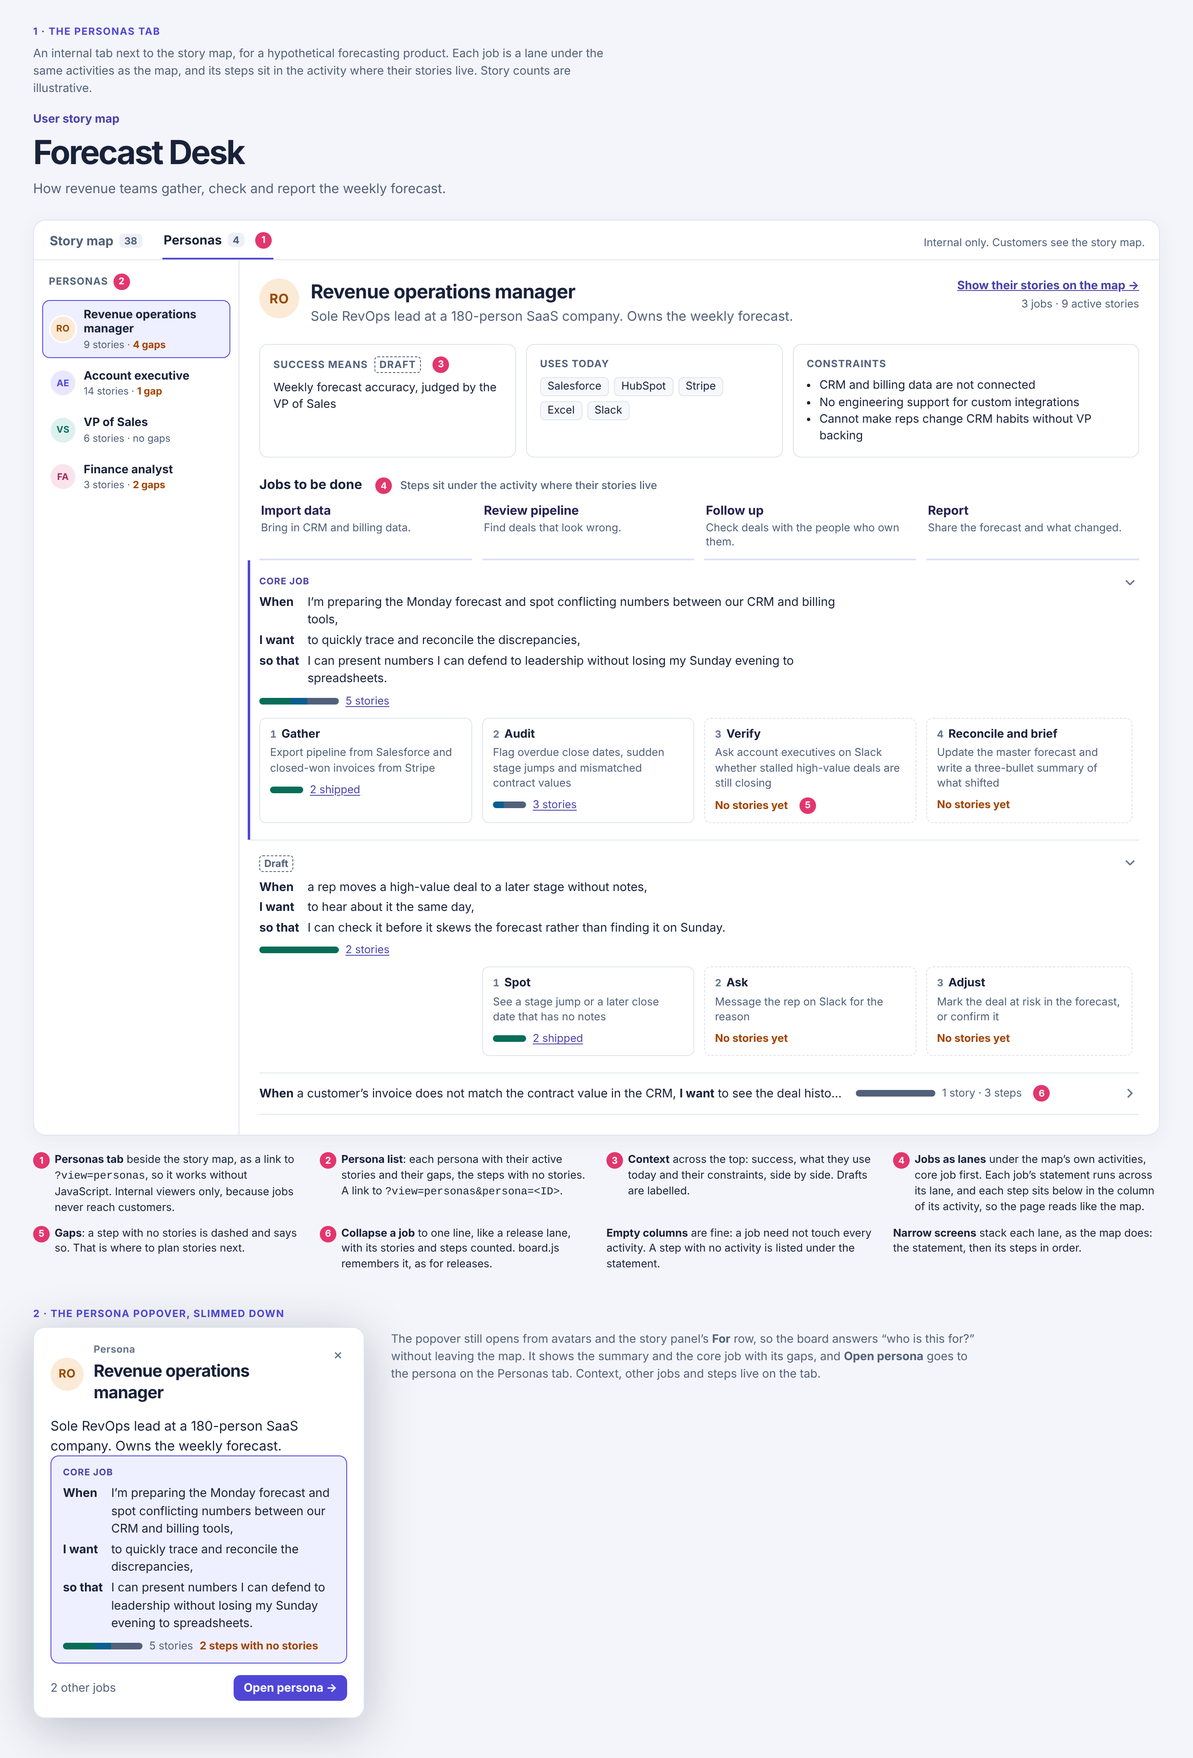
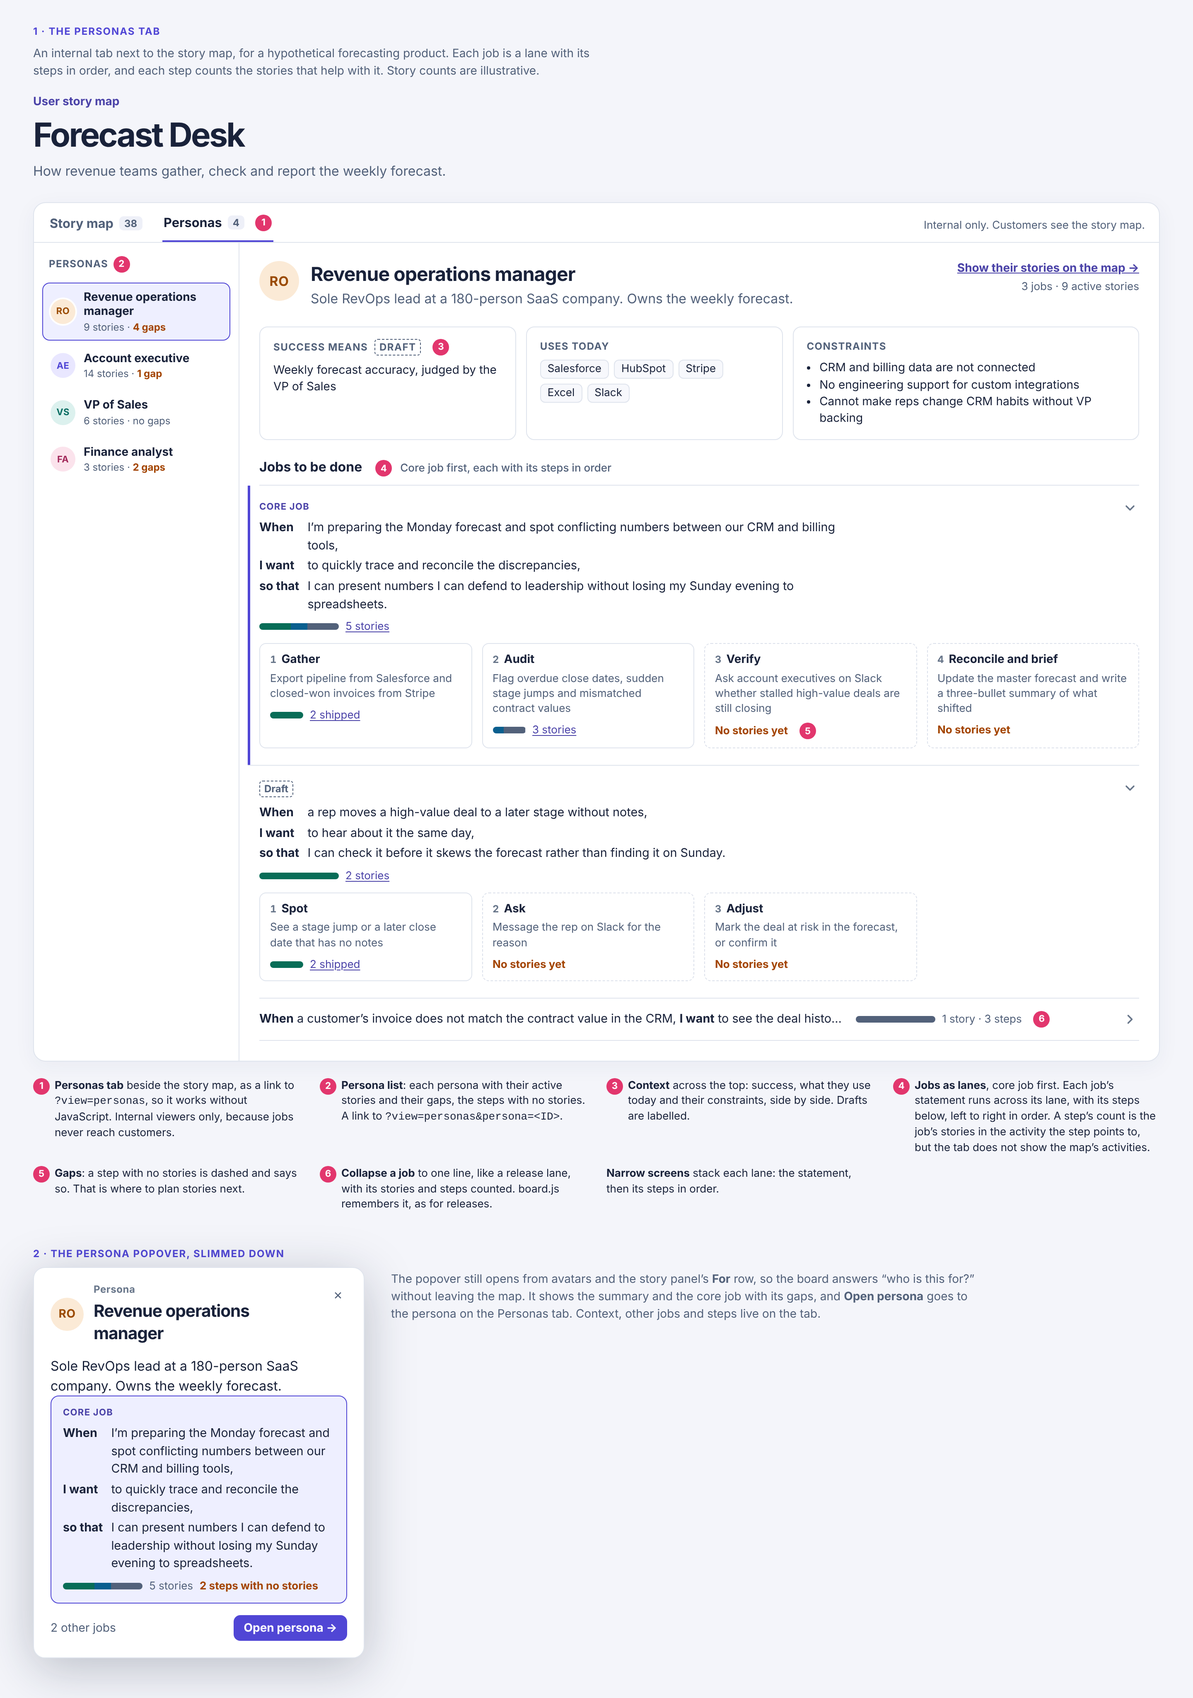
ESM-911: Take the map's activities out of the Personas tab
Each job lane now lists its steps left to right in order, with no activity
row and no empty columns. Steps still point to activities in the map file,
which decides the stories each one counts. Update the plan and the ESM-910
and ESM-911 summaries to match.

Claude-Session: https://claude.ai/code/session_01Lq2MQSpe3eM9QABbsSvSfC

diff --git a/docs/plans/persona-page-mockup.html b/docs/plans/persona-page-mockup.html
@@ -56,20 +56,17 @@
   .esm-uses { display: flex; flex-wrap: wrap; gap: 6px; padding: 0 !important; list-style: none; }
   .esm-uses li { padding: 1px 8px; border: 1px solid var(--esm-line); border-radius: 6px; background: var(--esm-canvas); font-size: .8125rem; }
 
-  /* Jobs as lanes under the map's activities.
+  /* Jobs as lanes, each with its steps in order.
      Kept quiet on purpose: no box around the section or each lane, lanes split by a rule,
      the core job marked by an accent edge, and flat step cards with the count as the link. */
   .esm-section-title { display: flex; align-items: baseline; gap: 10px; margin: 0 0 10px; font-size: 1rem; font-weight: 700; }
   .esm-section-title span:not(.mock-callout) { color: var(--esm-muted); font-size: .8125rem; font-weight: 500; }
-  .esm-jobs-map .esm-grid { grid-template-columns: repeat(var(--esm-columns), minmax(10rem, 1fr)); min-width: 0; padding: 0; background: none; row-gap: 0; }
-  .esm-jobs-map .esm-row { column-gap: 12px; }
-  .esm-jobs-map .esm-activity { padding: 0 2px 10px; border: 0; border-bottom: 2px solid var(--esm-activity-line); border-radius: 0; background: none; }
-  .esm-jobs-map .esm-activity-title { font-size: .9375rem; }
-  .esm-jobs-map .esm-activity-summary { font-size: .8125rem; }
-  .esm-job-lane { position: relative; row-gap: 12px; padding: 18px 0 20px; border-bottom: 1px solid var(--esm-line); }
+  .esm-jobs-map { border-top: 1px solid var(--esm-line); }
+  .esm-job-lane { position: relative; display: grid; gap: 12px; padding: 18px 0 20px; border-bottom: 1px solid var(--esm-line); }
+  .esm-job-steps { display: grid; grid-template-columns: repeat(4, minmax(0, 1fr)); gap: 12px; }
   .esm-job-lane[data-core] { padding-left: 14px; margin-left: -14px; box-shadow: inset 3px 0 0 var(--esm-accent); }
   .esm-job-lane[data-core] .esm-job-cell { padding-left: 0; }
-  .esm-job-cell { position: relative; grid-column: 1 / -1; display: grid; align-content: start; gap: 8px; min-width: 0; padding-right: 36px; }
+  .esm-job-cell { position: relative; display: grid; align-content: start; gap: 8px; min-width: 0; padding-right: 36px; }
   .esm-job-label { color: var(--esm-accent-ink); font-size: .6875rem; font-weight: 750; letter-spacing: .06em; text-transform: uppercase; }
   .esm-lane-chevron { position: absolute; top: 0; right: 2px; color: var(--esm-faint); }
   .esm-job-statement { max-width: 78ch; margin: 0; font-size: .9rem; line-height: 1.5; }
@@ -77,7 +74,6 @@
   .esm-job-lane:not([data-collapsed]) .esm-job-statement, .esm-popover-core .esm-job-statement { display: grid; grid-template-columns: max-content minmax(0, 1fr); gap: 3px 10px; }
   .esm-job-meta { display: flex; flex-wrap: wrap; align-items: center; gap: 6px 8px; margin: 0; color: var(--esm-muted); font-size: .8125rem; }
   .esm-job-meta a, .esm-step-cov a { color: var(--esm-accent-ink); text-underline-offset: 2px; }
-  .esm-jobs-map .esm-cell { min-height: 0; padding: 0; }
   .esm-step-card { display: grid; align-content: start; gap: 4px; height: 100%; box-sizing: border-box; padding: 10px 12px; border: 1px solid var(--esm-line); border-radius: 8px; background: var(--esm-paper); font-size: .8125rem; line-height: 1.4; }
   .esm-step-card[data-gap] { border-style: dashed; border-color: var(--esm-card-line); background: transparent; }
   .esm-step-card .esm-card-title { display: flex; align-items: baseline; gap: 6px; font-size: .875rem; }
@@ -104,7 +100,7 @@
 
 <div class="mock-section">
   <p class="mock-label">1 · The Personas tab</p>
-  <p class="mock-note">An internal tab next to the story map, for a hypothetical forecasting product. Each job is a lane under the same activities as the map, and its steps sit in the activity where their stories live. Story counts are illustrative.</p>
+  <p class="mock-note">An internal tab next to the story map, for a hypothetical forecasting product. Each job is a lane with its steps in order, and each step counts the stories that help with it. Story counts are illustrative.</p>
   <section class="esm-board" data-theme="light">
     <header class="esm-header">
       <p class="esm-eyebrow">User story map</p>
@@ -147,48 +143,42 @@
           </div>
 
           <div>
-            <h4 class="esm-section-title">Jobs to be done<span class="mock-callout">4</span> <span>Steps sit under the activity where their stories live</span></h4>
+            <h4 class="esm-section-title">Jobs to be done<span class="mock-callout">4</span> <span>Core job first, each with its steps in order</span></h4>
             <div class="esm-jobs-map">
-              <div class="esm-grid" style="--esm-columns: 4">
-                <div class="esm-row esm-activities">
-                                    <div class="esm-activity"><span class="esm-activity-title">Import data</span><span class="esm-activity-summary">Bring in CRM and billing data.</span></div>
-                  <div class="esm-activity"><span class="esm-activity-title">Review pipeline</span><span class="esm-activity-summary">Find deals that look wrong.</span></div>
-                  <div class="esm-activity"><span class="esm-activity-title">Follow up</span><span class="esm-activity-summary">Check deals with the people who own them.</span></div>
-                  <div class="esm-activity"><span class="esm-activity-title">Report</span><span class="esm-activity-summary">Share the forecast and what changed.</span></div>
-                </div>
-
-                <div class="esm-row esm-job-lane" data-core>
+                <div class="esm-job-lane" data-core>
                   <div class="esm-job-cell">
                     <svg class="esm-lane-chevron" width="18" height="18" viewBox="0 0 16 16" fill="none" stroke="currentColor" stroke-width="1.6" stroke-linecap="round" stroke-linejoin="round" aria-hidden="true"><path d="m4 6 4 4 4-4"/></svg>
                     <span class="esm-job-label">Core job</span>
                     <p class="esm-job-statement"><b>When</b><span>I’m preparing the Monday forecast and spot conflicting numbers between our CRM and billing tools,</span><b>I want</b><span>to quickly trace and reconcile the discrepancies,</span><b>so that</b><span>I can present numbers I can defend to leadership without losing my Sunday evening to spreadsheets.</span></p>
                     <p class="esm-job-meta"><span class="esm-bar"><span data-status="shipped" style="width:40%"></span><span data-status="merged" style="width:20%"></span><span data-status="planned" style="width:40%"></span></span><a href="#">5 stories</a></p>
                   </div>
-                  <div class="esm-cell"><div class="esm-step-card"><span class="esm-card-title"><span class="esm-step-num" aria-label="Step 1">1</span>Gather</span><span class="esm-step-text">Export pipeline from Salesforce and closed-won invoices from Stripe</span><span class="esm-step-cov"><span class="esm-bar"><span data-status="shipped" style="width:100%"></span></span><a href="#">2 shipped</a></span></div></div>
-                  <div class="esm-cell"><div class="esm-step-card"><span class="esm-card-title"><span class="esm-step-num" aria-label="Step 2">2</span>Audit</span><span class="esm-step-text">Flag overdue close dates, sudden stage jumps and mismatched contract values</span><span class="esm-step-cov"><span class="esm-bar"><span data-status="merged" style="width:33%"></span><span data-status="planned" style="width:67%"></span></span><a href="#">3 stories</a></span></div></div>
-                  <div class="esm-cell"><div class="esm-step-card" data-gap><span class="esm-card-title"><span class="esm-step-num" aria-label="Step 3">3</span>Verify</span><span class="esm-step-text">Ask account executives on Slack whether stalled high-value deals are still closing</span><span class="esm-step-cov"><span class="esm-job-gap">No stories yet</span><span class="mock-callout">5</span></span></div></div>
-                  <div class="esm-cell"><div class="esm-step-card" data-gap><span class="esm-card-title"><span class="esm-step-num" aria-label="Step 4">4</span>Reconcile and brief</span><span class="esm-step-text">Update the master forecast and write a three-bullet summary of what shifted</span><span class="esm-step-cov"><span class="esm-job-gap">No stories yet</span></span></div></div>
+                  <div class="esm-job-steps">
+                    <div class="esm-step-card"><span class="esm-card-title"><span class="esm-step-num" aria-label="Step 1">1</span>Gather</span><span class="esm-step-text">Export pipeline from Salesforce and closed-won invoices from Stripe</span><span class="esm-step-cov"><span class="esm-bar"><span data-status="shipped" style="width:100%"></span></span><a href="#">2 shipped</a></span></div>
+                    <div class="esm-step-card"><span class="esm-card-title"><span class="esm-step-num" aria-label="Step 2">2</span>Audit</span><span class="esm-step-text">Flag overdue close dates, sudden stage jumps and mismatched contract values</span><span class="esm-step-cov"><span class="esm-bar"><span data-status="merged" style="width:33%"></span><span data-status="planned" style="width:67%"></span></span><a href="#">3 stories</a></span></div>
+                    <div class="esm-step-card" data-gap><span class="esm-card-title"><span class="esm-step-num" aria-label="Step 3">3</span>Verify</span><span class="esm-step-text">Ask account executives on Slack whether stalled high-value deals are still closing</span><span class="esm-step-cov"><span class="esm-job-gap">No stories yet</span><span class="mock-callout">5</span></span></div>
+                    <div class="esm-step-card" data-gap><span class="esm-card-title"><span class="esm-step-num" aria-label="Step 4">4</span>Reconcile and brief</span><span class="esm-step-text">Update the master forecast and write a three-bullet summary of what shifted</span><span class="esm-step-cov"><span class="esm-job-gap">No stories yet</span></span></div>
+                  </div>
                 </div>
 
-                <div class="esm-row esm-job-lane">
+                <div class="esm-job-lane">
                   <div class="esm-job-cell">
                     <svg class="esm-lane-chevron" width="18" height="18" viewBox="0 0 16 16" fill="none" stroke="currentColor" stroke-width="1.6" stroke-linecap="round" stroke-linejoin="round" aria-hidden="true"><path d="m4 6 4 4 4-4"/></svg>
                     <span class="esm-draft" style="justify-self:start">Draft</span>
                     <p class="esm-job-statement"><b>When</b><span>a rep moves a high-value deal to a later stage without notes,</span><b>I want</b><span>to hear about it the same day,</span><b>so that</b><span>I can check it before it skews the forecast rather than finding it on Sunday.</span></p>
                     <p class="esm-job-meta"><span class="esm-bar"><span data-status="shipped" style="width:100%"></span></span><a href="#">2 stories</a></p>
                   </div>
-                  <div class="esm-cell"></div>
-                  <div class="esm-cell"><div class="esm-step-card"><span class="esm-card-title"><span class="esm-step-num" aria-label="Step 1">1</span>Spot</span><span class="esm-step-text">See a stage jump or a later close date that has no notes</span><span class="esm-step-cov"><span class="esm-bar"><span data-status="shipped" style="width:100%"></span></span><a href="#">2 shipped</a></span></div></div>
-                  <div class="esm-cell"><div class="esm-step-card" data-gap><span class="esm-card-title"><span class="esm-step-num" aria-label="Step 2">2</span>Ask</span><span class="esm-step-text">Message the rep on Slack for the reason</span><span class="esm-step-cov"><span class="esm-job-gap">No stories yet</span></span></div></div>
-                  <div class="esm-cell"><div class="esm-step-card" data-gap><span class="esm-card-title"><span class="esm-step-num" aria-label="Step 3">3</span>Adjust</span><span class="esm-step-text">Mark the deal at risk in the forecast, or confirm it</span><span class="esm-step-cov"><span class="esm-job-gap">No stories yet</span></span></div></div>
+                  <div class="esm-job-steps">
+                    <div class="esm-step-card"><span class="esm-card-title"><span class="esm-step-num" aria-label="Step 1">1</span>Spot</span><span class="esm-step-text">See a stage jump or a later close date that has no notes</span><span class="esm-step-cov"><span class="esm-bar"><span data-status="shipped" style="width:100%"></span></span><a href="#">2 shipped</a></span></div>
+                    <div class="esm-step-card" data-gap><span class="esm-card-title"><span class="esm-step-num" aria-label="Step 2">2</span>Ask</span><span class="esm-step-text">Message the rep on Slack for the reason</span><span class="esm-step-cov"><span class="esm-job-gap">No stories yet</span></span></div>
+                    <div class="esm-step-card" data-gap><span class="esm-card-title"><span class="esm-step-num" aria-label="Step 3">3</span>Adjust</span><span class="esm-step-text">Mark the deal at risk in the forecast, or confirm it</span><span class="esm-step-cov"><span class="esm-job-gap">No stories yet</span></span></div>
+                  </div>
                 </div>
 
-                <div class="esm-row esm-job-lane" data-collapsed>
+                <div class="esm-job-lane" data-collapsed>
                   <p class="esm-job-statement"><b>When</b> a customer’s invoice does not match the contract value in the CRM, <b>I want</b> to see the deal history behind both numbers, <b>so that</b> finance and sales stop arguing about whose figure is right. <span class="esm-draft">Draft</span></p>
                   <p class="esm-job-meta"><span class="esm-bar"><span data-status="planned" style="width:100%"></span></span><span>1 story · 3 steps</span><span class="mock-callout">6</span></p>
                   <svg class="esm-lane-chevron" data-closed width="18" height="18" viewBox="0 0 16 16" fill="none" stroke="currentColor" stroke-width="1.6" stroke-linecap="round" stroke-linejoin="round" aria-hidden="true"><path d="m4 6 4 4 4-4"/></svg>
                 </div>
-              </div>
             </div>
           </div>
         </div>
@@ -199,11 +189,10 @@
     <li><span class="mock-callout">1</span><span><strong>Personas tab</strong> beside the story map, as a link to <code>?view=personas</code>, so it works without JavaScript. Internal viewers only, because jobs never reach customers.</span></li>
     <li><span class="mock-callout">2</span><span><strong>Persona list</strong>: each persona with their active stories and their gaps, the steps with no stories. A link to <code>?view=personas&amp;persona=&lt;ID&gt;</code>.</span></li>
     <li><span class="mock-callout">3</span><span><strong>Context</strong> across the top: success, what they use today and their constraints, side by side. Drafts are labelled.</span></li>
-    <li><span class="mock-callout">4</span><span><strong>Jobs as lanes</strong> under the map’s own activities, core job first. Each job’s statement runs across its lane, and each step sits below in the column of its activity, so the page reads like the map.</span></li>
+    <li><span class="mock-callout">4</span><span><strong>Jobs as lanes</strong>, core job first. Each job’s statement runs across its lane, with its steps below, left to right in order. A step’s count is the job’s stories in the activity the step points to, but the tab does not show the map’s activities.</span></li>
     <li><span class="mock-callout">5</span><span><strong>Gaps</strong>: a step with no stories is dashed and says so. That is where to plan stories next.</span></li>
     <li><span class="mock-callout">6</span><span><strong>Collapse a job</strong> to one line, like a release lane, with its stories and steps counted. board.js remembers it, as for releases.</span></li>
-    <li><span><strong>Empty columns</strong> are fine: a job need not touch every activity. A step with no activity is listed under the statement.</span></li>
-    <li><span><strong>Narrow screens</strong> stack each lane, as the map does: the statement, then its steps in order.</span></li>
+    <li><span><strong>Narrow screens</strong> stack each lane: the statement, then its steps in order.</span></li>
   </ol>
 </div>
 

diff --git a/docs/plans/personas.md b/docs/plans/personas.md
@@ -52,9 +52,9 @@ The panel grew too large for a popover, so item 11 moves the full persona to a t
 
 ## Personas tab mockup
 
-![Mockup of the Personas tab, with the persona list, context band and jobs laid out as lanes under the map's activities, and the slimmer persona popover](persona-page-mockup.png)
+![Mockup of the Personas tab, with the persona list, context band and jobs laid out as lanes with their steps in order, and the slimmer persona popover](persona-page-mockup.png)
 
-The mockup is [persona-page-mockup.html](persona-page-mockup.html), built on the real `styles.css`. It shows item 11: the **Personas** tab with a list of personas, the chosen persona's context across the top, and each job as a lane under the map's own activities, core job first, with its steps in the columns of their activities. Steps with no stories are dashed. The third job is collapsed. Below it is the slimmer popover that links to the tab. ESM-907 to ESM-911 link to this section from their `sources`.
+The mockup is [persona-page-mockup.html](persona-page-mockup.html), built on the real `styles.css`. It shows item 11: the **Personas** tab with a list of personas, the chosen persona's context across the top, and each job as a lane, core job first, with its steps below in order. The tab does not show the map's activities. Steps with no stories are dashed. The third job is collapsed. Below it is the slimmer popover that links to the tab. ESM-907 to ESM-911 link to this section from their `sources`.
 
 ## The format
 
@@ -324,7 +324,7 @@ jobs:
 
 - `src/schema.ts`: optional `steps` on a job, up to 6, in order. Each has a `title` (up to 60 characters), an optional `summary` and an optional `activity` ID. An unknown activity is an error, as for stories.
 - Coverage: the stories for a step are those that serve the job and sit in the step's activity. A step without an activity has no coverage of its own.
-- `src/react.tsx`: on the Personas tab (item 11), each job is a lane under the map's activities. Its statement runs across the lane, and its steps sit below in the columns of their activities, in order, each with its count of active stories. A step with an activity but no stories is dashed and says **No stories yet**. A step with no activity is listed under the statement. A **Show** link per step sets `job` and `activity`. Every job can have steps, not only the core job.
+- `src/react.tsx`: on the Personas tab (item 11), each job is a lane. Its statement runs across the lane, with **When**, **I want** and **so that** each on a new line, and its steps sit below, left to right in order, each with its count of active stories. A step's activity decides which stories it counts, but the tab does not show the map's activities. A step with an activity but no stories is dashed and says **No stories yet**. A step with no activity has no count. Each step's count is a link that sets `job` and `activity`. Every job can have steps, not only the core job.
 - Each job lane collapses to one line like a release lane, with its story count and number of steps, and board.js remembers it in the same way. Without JavaScript, every lane stays open.
 - The popover shows how many of the core job's steps have no stories, and nothing else about steps.
 - Validate warns about a step whose activity has no active stories for its job.
@@ -346,9 +346,9 @@ A persona with context, a core job and steps on each job needs a page, not a pop
   - **Story map** and **Personas** tabs at the top of the frame, as links, so they work without JavaScript. The tabs show only when the map has personas and the viewer is internal.
   - A persona list down the side: each persona's avatar, title, active stories and gaps, the steps with an activity but no stories. Each is a link to that persona.
   - The chosen persona's title, summary and a **Show their stories on the map** link, which opens the map filtered to them.
-  - Their context (item 7) side by side, then their jobs as lanes under the map's activities (items 8 and 10).
+  - Their context (item 7) side by side, then their jobs as lanes, each with its steps in order (items 8 and 10).
   - The persona popover (ESM-904) keeps the summary and the core job with its story count and gaps, says how many other jobs there are, and gains an **Open persona** link to the tab.
-- Narrow screens: the persona list becomes a menu above the page, the context cards stack, and each lane stacks its statement, then its steps in order, as the map does.
+- Narrow screens: the persona list becomes a menu above the page, the context cards stack, and each lane stacks its statement, then its steps in order.
 - No change to the exports: the JSON export already carries everything on the page.
 
 **Docs.** A **Personas tab** section under [Personas and jobs to be done](../story-map.md#personas-and-jobs-to-be-done), and the `view` parameter in [Integrate with a product](../story-map.md#integrate-with-a-product).
